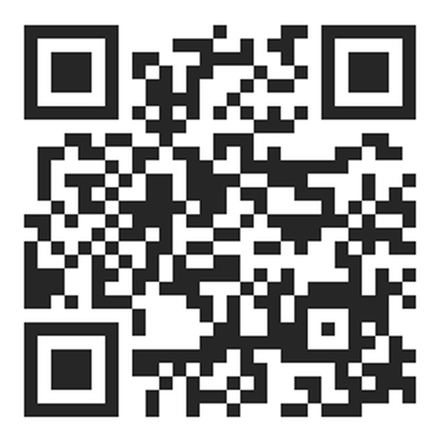
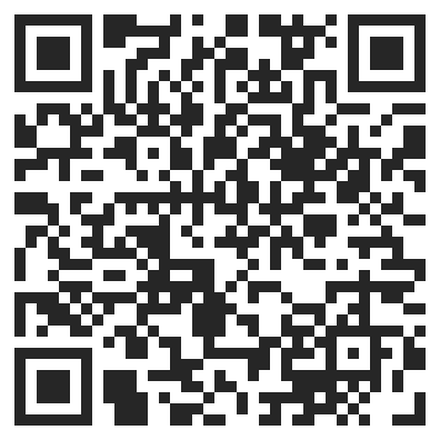
update QR and Player Layout

diff --git a/client/player.html b/client/player.html
@@ -36,7 +36,7 @@
         </div>
 
         <!-- Game Title --> 
-        <h2 id="game-title">Join the Race!</h2>
+        <h2 class="uk-text-center uk-margin-small-top" id="game-title">Join the Race!</h2>
 
         <!-- Player Setup -->
         <div id="player-setup">
@@ -88,16 +88,17 @@
 
         <!-- Game Area -->  
         <div id="game-area" class="uk-hidden uk-margin-auto">
-            <div class="uk-flex uk-flex-middle uk-margin">
+            <div class="uk-margin">
+                <h3 class="uk-margin-remove-bottom uk-margin-remove-top uk-text-center">Hi <span id="player-name-display"></span>!</h3>
             </div>
             <div id="click-area" class="click-area uk-card uk-card-default uk-card-body uk-text-center uk-margin-auto">
                 <img id="player-avatar-game" class="avatar-preview uk-margin-right" alt="Player avatar" style="height: 100%; width: 100%; margin: 0px;">
             </div>
 
-            <div id="game-info" class="uk-margin-medium-top">
-                <h3 class="uk-margin-remove-bottom"><span id="player-name-display"></span> playing for <span id="team-display"></span></h3>
+            <div id="game-info" class="uk-margin-top">
+                <h4 class="uk-margin-remove-bottom uk-margin-remove-top">Team: <span id="team-display"></span></h4>
                 <h4 class="uk-margin-remove-bottom uk-margin-small-top">Time Remaining: <span id="timer">0</span>s</h4>
-                <h4 class="uk-margin-small-top">Team Clicks: <span id="clicks">0</span></h4>
+                <h4 class="uk-margin-small-top uk-margin-remove-bottom">Team Clicks: <span id="clicks">0</span></h4>
             </div>
         </div>
     </div>
@@ -193,7 +194,7 @@
                 // Update game area with player info
                 document.getElementById('player-name-display').textContent = playerName;
                 document.getElementById('team-display').textContent = 
-                    `${myTeam.charAt(0).toUpperCase() + myTeam.slice(1)} Team`;
+                    `${myTeam.charAt(0).toUpperCase() + myTeam.slice(1)}`;
                 document.getElementById('player-avatar-game').src = 
                     playerAvatar || '/assets/images/default-avatar.png';
 

diff --git a/client/css/player.css b/client/css/player.css
@@ -77,13 +77,18 @@ h1, h2, h3, h4, h5, h6 {
     margin: 20px 0;
 }
 
-.game-info {
-    opacity: 0;
-    visibility: hidden;
+#game-info {
     transition: opacity 0.3s ease-in-out;
+    background-color: #2c2c2c;
+    border-radius: 12px;
+    padding: 15px;
 }
 
-.game-info.show {
+#game-area h3 {
+    line-height: 40px;
+}
+
+#game-info.show {
     opacity: 1;
     visibility: visible;
 }
@@ -98,6 +103,11 @@ h1, h2, h3, h4, h5, h6 {
     font-weight: 400;
     letter-spacing: 0.09em;
     color: #ffffff;
+    transition: all 0.3s ease-in-out;
+}
+
+#logo img {
+    transition: all 0.3s ease-in-out;
 }
 
 #avatar-upload {
@@ -151,3 +161,12 @@ h1, h2, h3, h4, h5, h6 {
     background-color: #E94D87;
 }
 
+@media (max-width: 420px) {
+  
+    #logo-text {
+       font-size: 2em;
+    }
+    #logo img {
+        height: 60px !important;
+    }
+}

diff --git a/client/css/producer.css b/client/css/producer.css
@@ -132,3 +132,21 @@ h1, h2, h3, h4, h5, h6 {
     letter-spacing: 0.09em;
     color: #ffffff;
 }
+
+@media (max-width: 800px) {
+  
+    #reset-game {
+        position: relative;
+        right: 0;
+    }
+}
+
+@media (max-width: 640px) {
+  
+    #game-controls {
+       flex-direction: column;
+    }
+}
+
+
+

diff --git a/client/css/output.css b/client/css/output.css
@@ -22,6 +22,7 @@ body {
     background-image: url('/assets/images/bg.png');
     background-size: cover;
     background-position: center;
+    position: relative;
 }
 .leaderboard-container {
     width: 800px;
